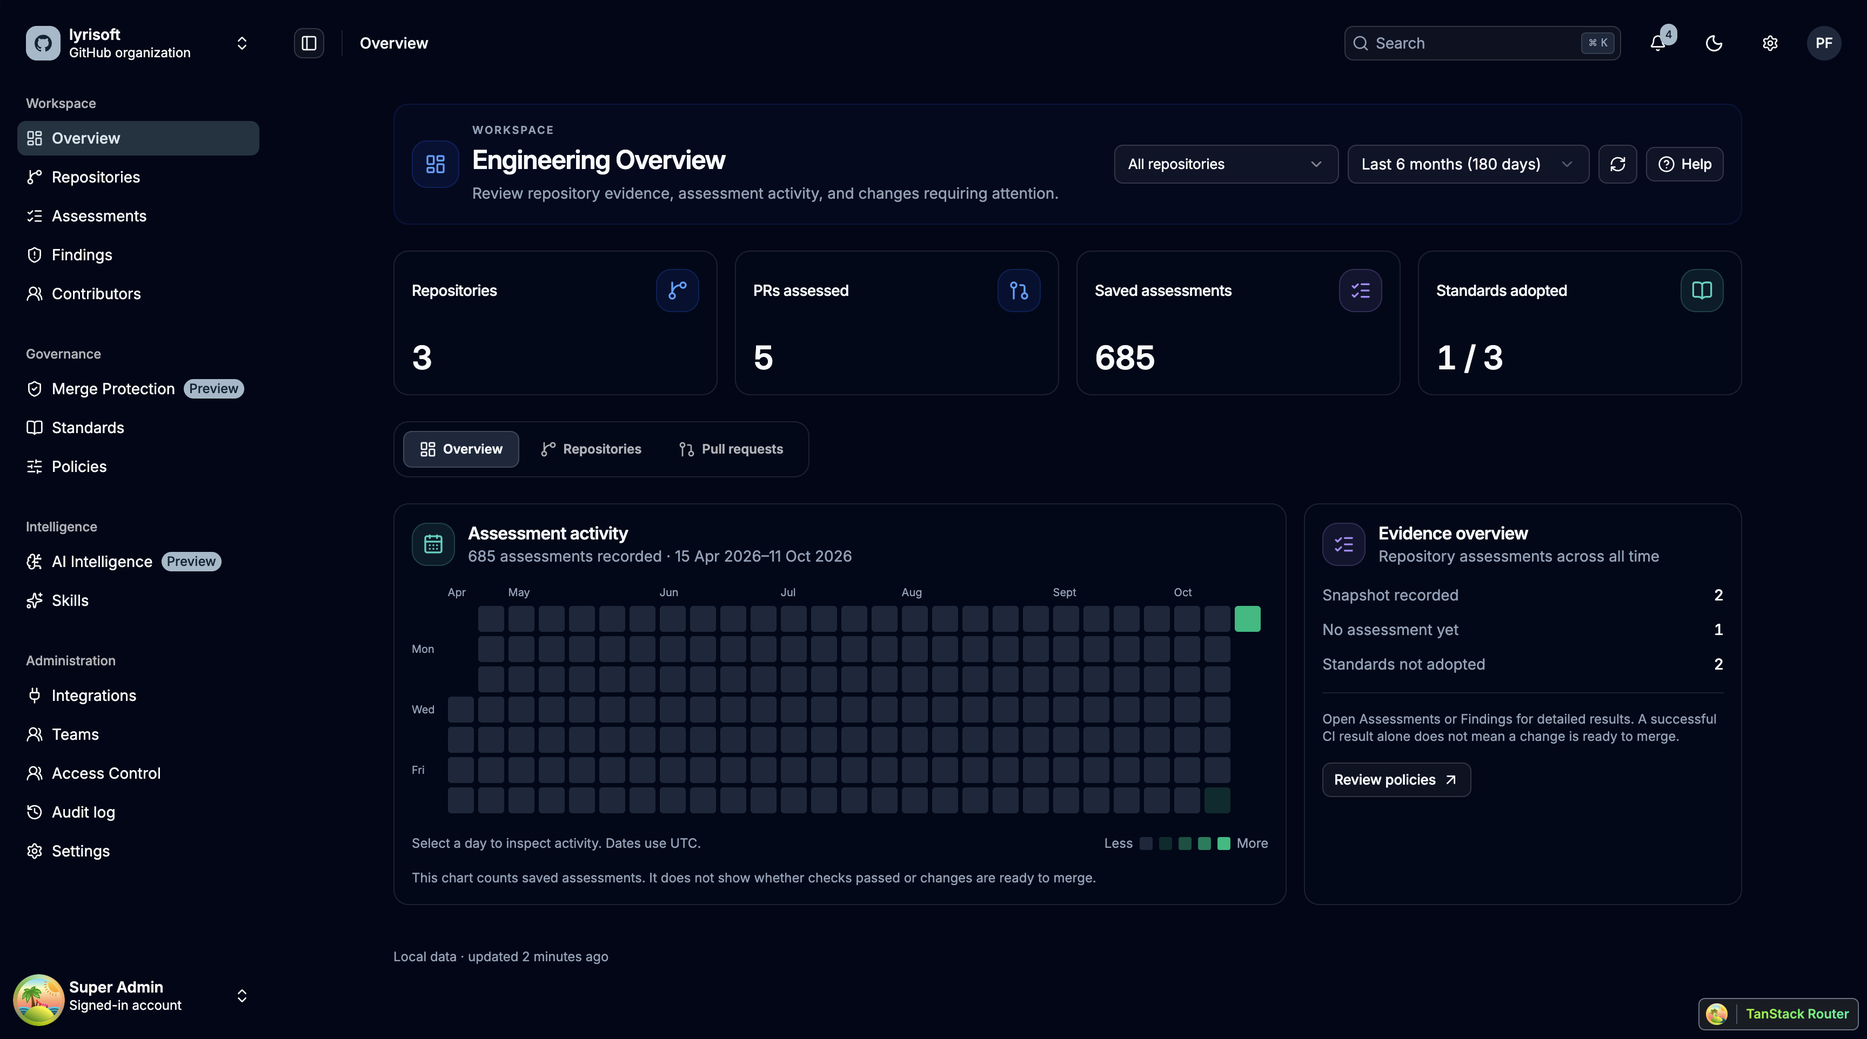
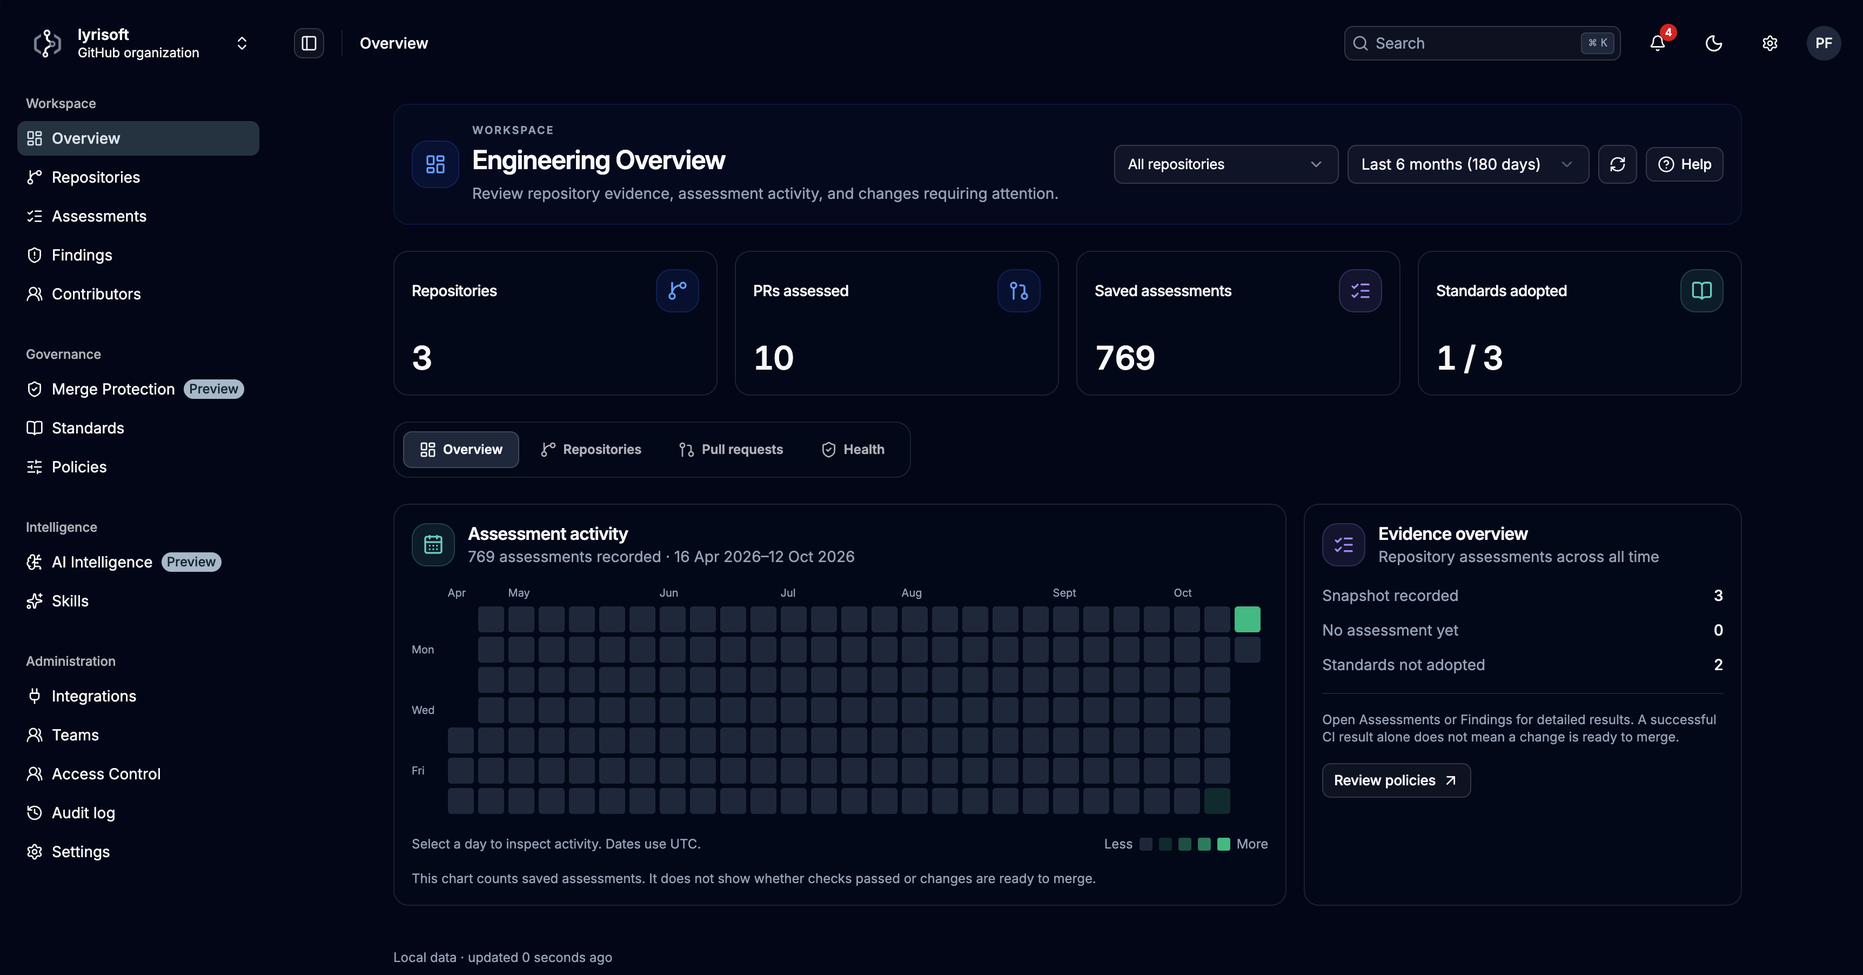
docs: update README and user guide for repository health features
Enhance documentation to reflect the new focus on repository health, unified findings, and AI guidance. This update clarifies Preflyt's capabilities and improves user understanding of the platform's benefits and workflows.

diff --git a/apps/docs/src/components/DocsHero.tsx b/apps/docs/src/components/DocsHero.tsx
@@ -6,12 +6,12 @@ export default function DocsHero() {
   return (
     <div className='pf-hero'>
       <img className='pf-brand-logo' src={useBaseUrl('img/brand/logo-panel.svg')} alt='PreflytLabs' width={840} height={280} />
-      <p className='pf-eyebrow'>Engineering assessment and governance</p>
+      <p className='pf-eyebrow'>Repository health and engineering governance</p>
       <h1 className='pf-hero__title'>Engineering confidence before production</h1>
       <p className='pf-hero__lead'>
-        Preflyt is a self-hosted shift-left engineering platform for software
-        teams. It brings engineering standards, branch policies, CI validation
-        and optional AI code reviews into your GitHub delivery workflow.
+        Understand your codebase, prioritize findings and assess changes with
+        confidence. Preflyt brings repository health, CI evidence, engineering
+        standards and AI guidance into one self-hosted workspace.
       </p>
       <div className='pf-hero__actions'>
         <Link className='button button--primary' to='/getting-started/quick-start'>

diff --git a/README.md b/README.md
@@ -6,7 +6,7 @@
 
 **Engineering confidence before production.**
 
-Preflyt is a self-hosted engineering assessment and governance platform that connects your team's standards to GitHub pull requests and CI results. It helps teams establish which checks a change must satisfy, verify the evidence for those checks, and give developers a clear, traceable readiness result before production.
+Preflyt is a self-hosted repository health and engineering governance platform. It helps teams understand the condition of their codebase, investigate security and quality findings, and assess whether proposed changes meet their engineering standards. Repository assessments and CI results come together in one workspace, with exact-commit evidence and optional AI guidance that explains the problem, likely effect and suggested fix.
 
 Developed by **Lyrisoft Technologies**.
 
@@ -19,12 +19,14 @@ Developed by **Lyrisoft Technologies**.
 Tests, scanners and CI pipelines produce useful results, but those results often live in separate tools. Teams still need to answer:
 
 - Which engineering requirements apply to this repository and target branch?
+- What security, reliability and maintainability issues exist in the codebase, even before CI is connected?
+- Which findings need attention, where is the affected code, and what should we do next?
 - Did the required checks run against the current commit?
 - Is the evidence sufficient to establish a pass, or is something missing?
 - What must a developer fix before the change can progress?
 - Can the team explain the decision later?
 
-Preflyt brings standards, branch policies, execution evidence and developer feedback into one workflow. Teams can catch defects and missing controls earlier, apply consistent requirements across repositories, and review the evidence behind each result.
+Preflyt brings repository health, findings, standards, branch policies and developer feedback into one workflow. Developers get code context and practical guidance; engineering leads can prioritize repository risks and follow comparable assessment trends; platform teams can apply consistent requirements and trace the evidence behind each result. Existing CI pipelines continue running tests and publishing their results.
 
 ## How it works
 
@@ -41,20 +43,22 @@ Repository inspection identifies configuration; it does not execute tests or pro
 
 | Capability | Purpose |
 | --- | --- |
-| **Repository health** | Background branch assessment, supported security findings, exact-commit source excerpts and immutable report history without CI; execution requires a qualified runtime. |
+| **Repository health** | Assess selected branches for supported security, reliability, maintainability, duplication and infrastructure issues; view overall health, completeness, freshness and comparable report history. Scanner execution requires a qualified runtime. |
 | **Versioned standards** | Define engineering checks, reuse built-in packs, and adopt reviewed versions for repositories and teams. |
 | **Branch policies** | Specify required checks for a target branch and preserve the approved policy revision. |
 | **CI integration** | Receive GitHub workflow/check events and supported test and scanner reports, including JUnit and SARIF. |
 | **Commit-bound assessments** | Show passing, failing and incomplete checks with the evidence used to evaluate them. |
 | **PR feedback** | Publish readiness checks and optional actionable AI review comments where developers work. |
 | **Merge protection** | Inspect GitHub rulesets and optionally manage activation, drift detection and rollback. |
-| **Findings and audit history** | Track issues, assignments and review notes, with scoped access and paginated audit records. |
+| **Unified findings** | Investigate CI and repository-health findings in one worklist, filtered by source, type, repository, severity and status, with assessed-commit source excerpts where available. |
+| **AI finding guidance** | Save concise problem, likely effect and suggested-fix explanations from assessed code. Use analyzer/rule guidance when AI is unavailable or unconfigured. |
+| **Contributor visibility and audit history** | Review recorded repository, commit, PR and review activity alongside scoped audit records, without turning activity into an employee performance score. |
 | **Teams and access control** | Apply standards across explicit repository scopes and manage organization roles and permissions. |
 | **Self-hosting** | Run the application with Docker Compose or the Kubernetes application bundle, with backup and observability guidance. |
 
 ### Optional AI reviews
 
-AI reviews help explain findings and review changed code using organization-selected models and review skills. Supported connections include OpenAI, Anthropic, Google, DeepSeek and OpenAI-compatible endpoints.
+AI guidance explains individual findings using code from the assessed commit and saves the result for later visits. Configured AI is the primary explanation when a valid result is available; analyzer/rule guidance remains the fallback. Optional PR reviews use organization-selected models and review skills. Supported connections include OpenAI, Anthropic, Google, DeepSeek and OpenAI-compatible endpoints.
 
 Code sharing is explicitly configured. AI findings are advisory: they do not change deterministic policy results, waive required checks or authorize a merge. When AI feedback is configured as part of a workflow, a provider or publication failure can still prevent that workflow from completing successfully.
 

diff --git a/apps/docs/docs/index.md b/apps/docs/docs/index.md
@@ -4,7 +4,7 @@ id: index
 title: Preflyt Documentation
 hide_title: true
 sidebar_label: Welcome
-description: Preflyt is a self-hosted engineering assessment and governance platform that helps software teams identify security, quality and infrastructure risks before production.
+description: Understand repository health, investigate findings and govern code changes with CI evidence and AI guidance in one self-hosted platform.
 ---
 
 import DocsHero from '@site/src/components/DocsHero'
@@ -13,13 +13,13 @@ import DocsHero from '@site/src/components/DocsHero'
 
 ![Preflyt Engineering Overview showing repository coverage, pull request assessments, adopted standards and assessment activity.](/img/engineering-overview.png)
 
-Preflyt helps engineering teams identify security, software quality and infrastructure risks earlier in development. It connects the requirements your team defines to the checks your pipeline runs, then provides actionable findings and a traceable readiness result for each assessed commit.
+Preflyt is a self-hosted repository health and engineering governance platform. It helps teams understand the condition of their codebase, investigate security and quality findings, and assess changes against their engineering standards. Repository health and CI assessments share a findings workspace, so developers can move from a reported issue to the affected code and suggested next steps.
 
 ## Why teams use Preflyt
 
-CI pipelines and scanners produce results, but results alone do not establish whether a change meets your team's requirements. Checks can be missing, apply to a different revision, or vary across repositories and branches.
+Teams need to understand both the code they already own and the changes they are about to merge. Scanner reports, test failures and repository configuration often live in separate places, making it difficult to prioritize problems or tell whether a result still applies.
 
-Preflyt gives teams a consistent way to define engineering standards, apply branch-specific policies, verify CI evidence and review issues before release. Developers receive feedback on pull requests; engineering and platform teams gain visibility into unmet requirements and the evidence behind each decision.
+Preflyt connects those results to their repository, branch and assessed commit. Developers get source context and guidance; engineering leads get health summaries and comparable finding trends; platform teams get reusable standards, branch policies and traceable readiness decisions. Missing analysis remains visible rather than looking like a clean result.
 
 You run Preflyt on your own infrastructure with Docker Compose or the Kubernetes application bundle. A GitHub App connects the repositories you select. Your GitHub Actions workflows run the tests and scanners; optional AI reviews use the models and review instructions your organization chooses.
 
@@ -29,6 +29,9 @@ Selecting a repository queues a [Health assessment](user-guide/repository-health
 
 ## Features
 
+- **Repository health**: branch assessments for supported security, reliability, maintainability, duplication and infrastructure checks, with overall status, analysis limits, freshness and history. Scanner execution requires an approved runtime.
+- **Unified findings**: CI and Health issues in one worklist with source, finding-type, repository, severity and status filters. Open the affected code at the assessed commit where source is available.
+- **AI finding guidance**: concise, saved explanations of the problem, likely effect and suggested fix. Analyzer/rule guidance is available when AI is unconfigured or unavailable.
 - **Repository profiles**: languages, frameworks, CI, tests, lockfiles, containers, infrastructure as code and scanner configuration, each backed by file evidence at an exact commit.
 - **Engineering standards**: five versioned packs (Baseline Engineering, Application Security, Backend Services, Frontend Applications and Infrastructure as Code) with recommendations based on your stack.
 - **Commit assessments**: freeze the standards you selected and the CI results GitHub reported for a commit, so you can compare repositories and revisions over time.
@@ -59,6 +62,7 @@ See [How Preflyt works](concepts/how-preflyt-works.md) for the complete workflow
 ### User Guide
 
 - [Overview](user-guide/index.md): how standards, policies, pull request checks and merge protection fit together.
+- [Repository health](user-guide/repository-health.md): assess branches, understand overall health and investigate findings without CI setup.
 - [Standards](user-guide/standards.md) and [Policies](user-guide/policies.md): decide what your code must meet.
 - [Pull request checks](user-guide/pull-request-checks.md) and [Merge Protection](user-guide/merge-protection.md): check every pull request and make GitHub require it.
 - [Native execution](user-guide/native-execution.md): optional reviewed execution, with current coverage and acceptance limits.

diff --git a/docs/PRD.md b/docs/PRD.md
@@ -1,19 +1,21 @@
 # Preflyt — Product Requirements Document
 
 **Product:** Preflyt
-**Positioning:** AI-native Shift Left engineering platform
+**Positioning:** Self-hosted repository health and engineering governance platform
 **Tagline:** Engineering confidence before production
 **Owner:** Lyrisoft Technologies
 **Status:** Product roadmap for engineering and product review; implemented capabilities and remaining scope are tracked in README and the incremental delivery plan
-**Version:** 0.5 — GitHub-first identity and inherited organization onboarding
-**Date:** 2026-10-09
+**Version:** 0.6 — Repository health, unified findings and AI guidance positioning
+**Date:** 2026-10-12
 **Source of architectural decisions:** [ADR-0001](architecture/ADR-0001-typescript-first-stack.md) · [ADR-0002](architecture/ADR-0002-safe-execution-fixtures-remediation-contract.md) · [ADR-0003](architecture/ADR-0003-oidc-user-authentication.md) · [ADR-0004](architecture/ADR-0004-shift-left-assessment-governance.md) · [ADR-0007](architecture/ADR-0007-github-first-identity-and-organizations.md)
 
 ---
 
 ## 1. Executive summary
 
-**Preflyt is a self-hosted, AI-native Shift Left engineering platform that helps organizations find and prevent security vulnerabilities, software defects, infrastructure misconfigurations, reliability failures, and other engineering risks earlier in the software development lifecycle (SDLC).**
+**Preflyt is a self-hosted repository health and engineering governance platform that helps organizations understand their codebase, prioritize security and quality findings, and assess changes before production.**
+
+Two complementary workflows deliver that value: repository Health assesses a selected branch at a fixed commit, while CI assessments evaluate submitted execution evidence against engineering requirements. Unified Findings brings issues from both workflows together with source context and saved AI explanations of the problem, likely effect and suggested fix. Analyzer/rule guidance remains available without AI. Health scanner execution requires a qualified runtime; inspection-only reports explicitly show incomplete analysis.
 
 Preflyt does not replace Git hosting, CI/CD or software scanners. It combines engineering standards, deterministic technical checks, imported CI evidence, AI-assisted engineering assessment and source-control feedback into a **continuous engineering assessment and quality-gate system**.
 
@@ -50,7 +52,14 @@ Existing engineering tools are numerous but fragmented. Developers may see sever
 
 ### Value proposition
 
-**Prevent engineering issues before production through continuous evidence-based assessments and enforceable, explainable quality gates.**
+**Understand repository health, turn findings into actionable work, and govern changes with traceable evidence before production.**
+
+- **Developers:** investigate issues with assessed-commit source and concise guidance in one place.
+- **Engineering leads:** prioritize security and quality risks across repositories, distinguish missing analysis from clean results, and compare compatible assessments over time.
+- **Platform and security teams:** reuse standards and branch policies, consume existing CI results, and introduce GitHub merge protection when explicitly enabled.
+- **Organizations:** self-host the platform, scope repository access, and choose AI providers and source-sharing settings.
+
+Repository health describes the saved branch revision and analysis scope. CI readiness describes whether a change has the required evidence. These are distinct outcomes; AI explains them but cannot override either evaluation. Broader SDLC capabilities below remain roadmap requirements unless marked implemented in the delivery plan.
 
 Do not claim that Preflyt guarantees vulnerability-free software, regulatory certification, lower cloud bills, or zero downtime.
 

diff --git a/apps/docs/docs/user-guide/repository-health.md b/apps/docs/docs/user-guide/repository-health.md
@@ -41,14 +41,14 @@ Branch checks are cached for one minute. Open or refresh Health to check again; 
 | Maintainability | JavaScript, TypeScript or Python source paths | Reviewed local Semgrep rules for leftover debugger statements and dynamic execution. Narrow rule coverage; findings require code review. |
 | Duplicated code | Supported JS/TS, Python, Java, Go, Ruby, PHP, C#, CSS/SCSS, SQL and Rust paths | jscpd 4.3.0 with a fixed, reviewed scope. Unique duplicated physical lines / analyzed physical lines; overlapping blocks count once. Source ranges link to the assessed revision. |
 | Security hotspot review | JavaScript, TypeScript or Python source paths | Reviewed Semgrep rules identify MD5 use for human context review. A hotspot is not a confirmed vulnerability. |
-| Test coverage | Coverage reports produced by existing CI tests | Exact-commit CI coverage ingestion is being connected. Health does not rerun tests; missing evidence shows Awaiting CI coverage. |
+| Test coverage | Coverage reports produced by existing CI tests | Exact-commit CI coverage ingestion remains pending. Health does not rerun tests; missing evidence is shown as a dash. |
 | Infrastructure configuration | Terraform or recognized Kubernetes/Helm paths | Trivy configuration analysis. Coverage is partial. |
 
 These are candidates selected from detected files, not guarantees that every language or file will be analyzed. Each tool needs a reviewed image, version, configuration and approved runtime. The base installation can produce an inspection-only report. Broad executed-analysis production acceptance is still pending; see [Native execution](native-execution.md).
 
 **Analyses completed** counts checks with validated analyzer output; **Files inspected** counts discovered source files and is not an analysis coverage denominator.
 
-Reliability and maintainability findings are classified separately when their reviewed adapters run. These initial rule packs do not provide broad language coverage or a quality grade. Duplication measurements require the reviewed jscpd adapter. Test coverage is off by default. The reviewed Node built-in recipe supplies actual loaded-file coverage when explicitly selected; other frameworks remain unavailable. Complexity still needs a qualified measured source. Health does not calculate an arbitrary combined grade or score.
+Reliability and maintainability findings are classified separately when their reviewed adapters run. These initial rule packs do not provide broad language coverage or a quality grade. Duplication measurements require the reviewed jscpd adapter. Test coverage comes from existing CI runs; Health does not offer a manual test-coverage run. Complexity still needs a qualified measured source. Overall health uses the completeness and failure rules described below, rather than averaging unrelated metrics into an arbitrary score.
 
 ## Findings and source
 

diff --git a/apps/docs/docs/concepts/how-preflyt-works.md b/apps/docs/docs/concepts/how-preflyt-works.md
@@ -21,6 +21,20 @@ Selecting a repository queues a branch Health assessment at a fixed commit. Revi
 
 ## The CI workflow
 
+Health and CI answer complementary questions. **Health** describes the codebase at a selected branch revision, including supported findings, completeness and freshness. **CI assessments** establish whether submitted checks meet the requirements for a change. Both feed the same Findings workspace.
+
+```mermaid
+flowchart LR
+  R[Selected repository] --> H[Branch Health assessment]
+  R --> C[CI reports and policy assessment]
+  H --> F[Unified Findings]
+  C --> F
+  F --> S[Assessed-commit source]
+  S --> G[AI or analyzer guidance]
+```
+
+In Findings, filter by source, type, repository, severity or status. Open an issue to inspect its evidence and saved source excerpt. Configured AI produces a short problem, likely effect and suggested fix, saved for later visits; analyzer/rule guidance is the fallback. AI explanations are advisory. The original evidence remains available alongside them.
+
 ```mermaid
 flowchart LR
   D[Discover<br/>profile the repository] --> A[Assess<br/>freeze standards + evidence]
@@ -39,9 +53,9 @@ flowchart LR
 
 ## The three engines
 
-- **Validation**: discovers repository context and normalises CI evidence.
+- **Validation**: discovers repository context, coordinates approved Health analysis and normalises CI evidence.
 - **Governance**: holds your standards, requirements and quality gates.
-- **Intelligence**: explains findings and correlates risk with optional AI. **AI never decides a gate result.**
+- **Intelligence**: explains findings using assessed code and supports optional PR reviews. **AI never decides a gate result.**
 
 ## What "observe mode" means
 

diff --git a/apps/docs/docs/user-guide/index.md b/apps/docs/docs/user-guide/index.md
@@ -2,7 +2,7 @@
 id: index
 title: User Guide
 sidebar_label: Overview
-description: How standards, policies, pull request checks and merge protection fit together in Preflyt.
+description: Understand repository health, investigate unified findings, and apply standards and policies to code changes.
 ---
 
 # User Guide
@@ -13,7 +13,11 @@ This guide covers everything you do in Preflyt after it is installed and connect
 
 Explicitly selecting a repository queues a [Health assessment](repository-health.md) of its default branch. Read findings, analysis limits and revision history in Health; an unavailable runtime produces a partial inspection report. This does not change policies or publish a merge check.
 
-## Add continuous checks
+## Investigate and prioritize findings
+
+[Findings](findings.md) brings together issues from Health and CI assessments. Filter by source, finding type, repository, severity and status, then inspect the affected source at the assessed commit. Saved AI guidance explains the issue, likely effect and suggested fix when configured; analyzer/rule guidance provides the fallback. Use repository health summaries and comparable assessment history to decide where to focus, and [Contributors](contributors.md) to understand recorded repository activity.
+
+## Govern changes with CI
 
 ```mermaid
 flowchart LR

diff --git a/apps/docs/docs/getting-started/index.md b/apps/docs/docs/getting-started/index.md
@@ -2,7 +2,7 @@
 id: index
 title: Getting Started
 sidebar_label: Overview
-description: The path from a fresh install to your first commit assessment.
+description: Connect repositories, read Health reports and findings, then add CI assessments and engineering policies.
 ---
 
 # Getting Started
